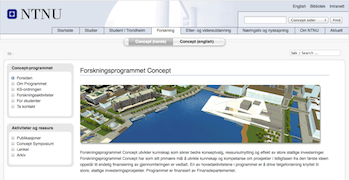
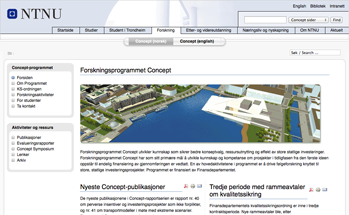
Changes requested at the last moment of time.

diff --git a/client/views/concept_index/concept_index.html b/client/views/concept_index/concept_index.html
@@ -10,7 +10,7 @@
 					<span class=""></span><a href="http://www.concept.ntnu.no/Publikasjoner/Rapportserie/Concept_rapport_nr_30.pdf" target="_blank">Link til Concept-rapport 30</a>
 				</div>
 				<div class="col-md-4 hidden-xs hidden-sm">
-					<img src="/images/concept_logo.png" class="img-responsive" style="max-height:350px; padding-top:40px; margin: 0 auto;" alt="Logoen til Concept" >
+					<img src="/images/concept_logo.png" class="img-responsive" style="max-height:270px; padding-top:40px; margin: 0 auto;" alt="Logoen til Concept" >
 				</div>
 			</div>
 		</div>
@@ -28,7 +28,7 @@
 			<div class="col-md-4">
 				<h2><a href="{{pathFor 'EvaluationCriteria'}}"> Evalueringskriterier</a></h2>
 				<p class="hyphenate">
-					Alle prosjektene evalueres ved hjelp av fem evalueringskriterier som anbefales av OECD som den primære tilnærmingen. Modellen er generisk og derfor anvendbar på alle typer tiltak, og vurderer prosjektets produktivitet, måloppnåelse, relevans, virkninger og levedyktighet. I tillegg er det foretatt en samfunnsøkonomisk analyse for å vurdere samfunnsøkonomisk lønnsomhet av investeringen i tillegg.
+					Alle prosjektene evalueres ved hjelp av fem evalueringskriterier som anbefales av OECD som den primære tilnærmingen. Modellen er generisk og derfor anvendbar på alle typer tiltak, og vurderer prosjektets produktivitet, måloppnåelse, relevans, virkninger og levedyktighet. I tillegg er det foretatt en samfunnsøkonomisk analyse for å gi en samlet vurdering av investeringens samfunnsøkonomiske lønnsomhet.
 				</p>
 				<p class="text-center visible-xs section-padding-small"><a class="btn btn-default" href="{{pathFor 'EvaluationCriteria'}}" role="button">Les mer &raquo;</a></p>
         <p class="hidden-xs"><a class="btn btn-default" href="{{pathFor 'EvaluationCriteria'}}" role="button">Les mer &raquo;</a></p>
